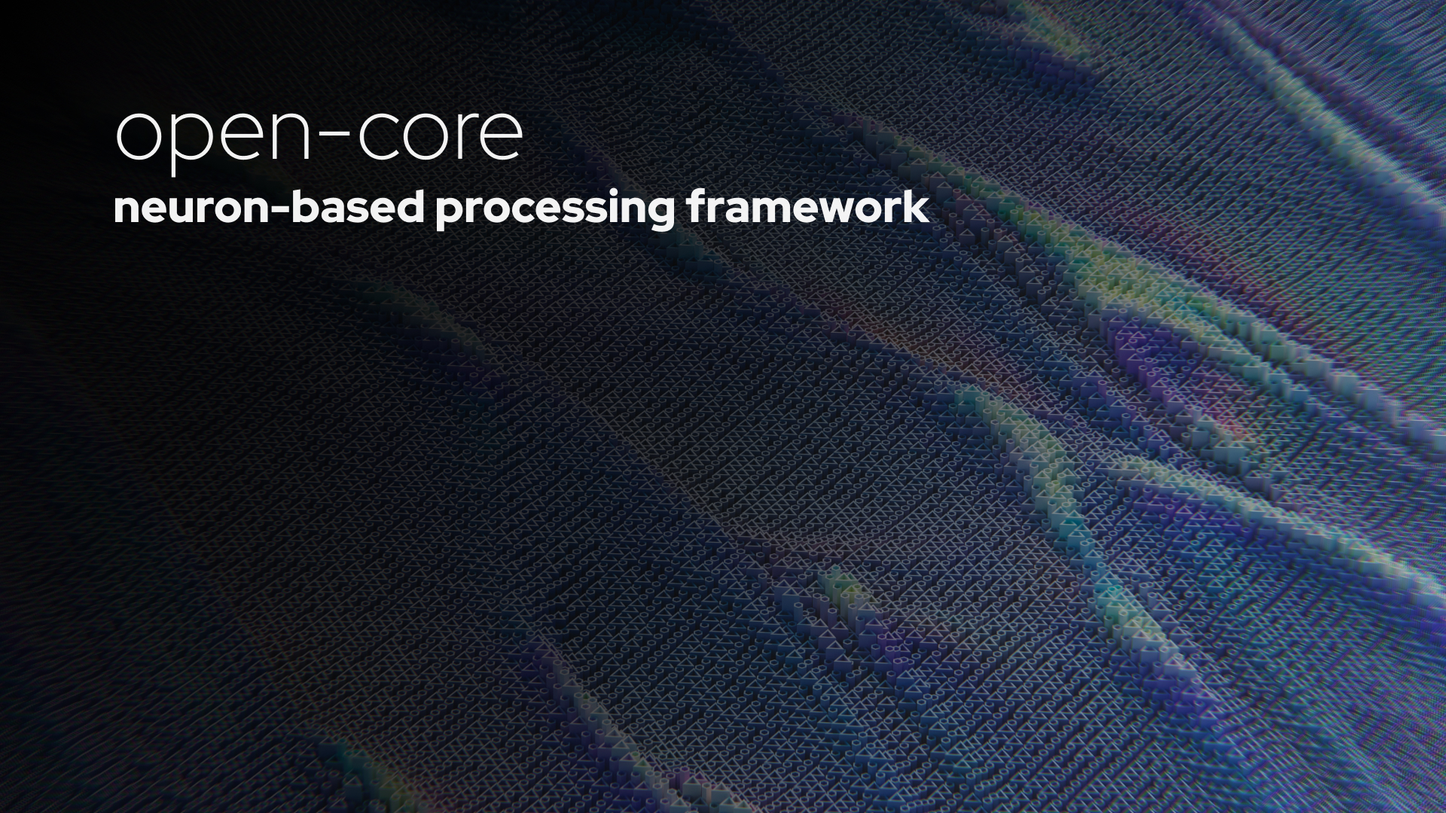
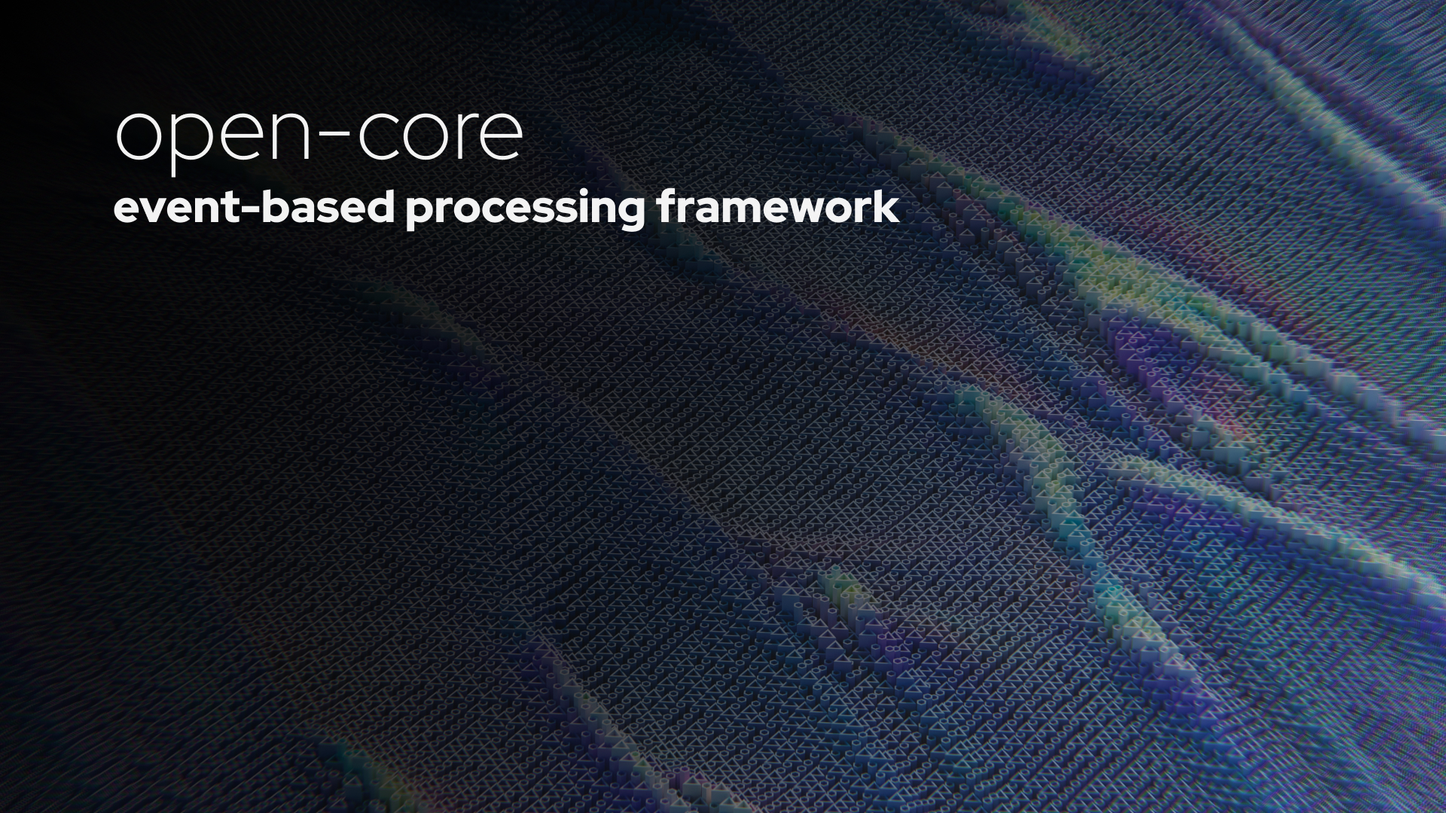
- v0.1.0 - Fixed the requirement files - Fixed GitHub Action workflow - Added SonarCloud

Changed region(s): [[0.0625, 0.2139, 0.6562, 0.3056]]

diff --git a/README.md b/README.md
@@ -1,50 +1,137 @@
 ![`open-core` header image.](asset/header.jpg)
 
-![Repo size](https://img.shields.io/github/repo-size/ilpomo/open-core?color=70e000)
-![License](https://img.shields.io/github/license/ilpomo/open-core?color=70e000)
+<p align="center">
+   <a href="https://github.com/ilpomo/open-core/actions/workflows/python-app.yml">
+      <img src="https://github.com/ilpomo/open-core/actions/workflows/python-app.yml/badge.svg">
+   </a>
+   <a href="https://github.com/ilpomo/open-core/">
+      <img src="https://img.shields.io/github/repo-size/ilpomo/open-core?color=70e000">
+   </a>
+   <a href="https://github.com/ilpomo/open-core/blob/main/LICENSE">
+      <img src="https://img.shields.io/github/license/ilpomo/open-core?color=70e000">
+   </a>
+</p>
 
-# open-core: neuron-based processing framework
+# open-core: event-based processing framework
 
 > Code has to run like the human brain, trillions of individual neurons firing off messages to each other, a massively 
-> parallel network with no central control, no single point of failure, yet able to solve immensely difficult problems. 
+> parallel network with no central control, no single point of failure, yet able to solve immensely difficult problems.
+> \
 > And it’s no accident that the future of code looks like the human brain, because the endpoints of every network are, 
 > at some level, human brains.
->  
+> \
+> \
 > Pieter Hintjens
 
-`open-core` is an event-based processing framework for Python software.
-It helps build massively parallel, concurrent, and asynchronous code that follows the [actor model](https://en.wikipedia.org/wiki/Actor_model) paradigm: 
-multiple independent asynchronous process services emitting and receiving events to and from each other, without the 
-need of a central broker or coordinator.
+`open-core` is a Python framework to easily build **massively parallel**, **concurrent**, and **asynchronous 
+event-based** code that follows [**the actor model**](https://en.wikipedia.org/wiki/Actor_model):
+multiple independent asynchronous process services hosting actors that exchanges events between them, without the need 
+of a central broker or coordinator.
 It tries to achieve this in the most intuitive, simple, and straightforward possible way.
 
-## Design
+### What is it all about in really simple terms?
 
-- Designed over [the actor model](https://en.wikipedia.org/wiki/Actor_model)
-  - Parallelism through multi-processing for CPU bound tasks
-  - Concurrency based on multi-threading for I/O bound tasks
-  - Concurrency based on Asyncio for network-related tasks
-  - Asynchronous [ZeroMQ](https://github.com/zeromq/pyzmq) contexts and sockets
+`open-core` is a Python framework containing ready-to-use building blocks to develop **high-performance** Python code.
+Writing high-performance Python code is complex and requires a good knowledge of many different low-level concepts and 
+tools:
+[Global Interpreter Lock (GIL)](https://wiki.python.org/moin/GlobalInterpreterLock), 
+[multiprocessing](https://docs.python.org/3/library/multiprocessing.html), 
+[threading](https://docs.python.org/3/library/threading.html),
+[asyncio](https://docs.python.org/3/library/asyncio.html),
+[concurrent.futures](https://docs.python.org/3/library/concurrent.futures.html) and many others.
+
+Choosing the right combination of tools may be complex, confusing, and time-consuming for a lot of developers.
+
+`open-core` aims to simplify this complexity by providing just enough functionalities out of the box so developers can 
+focus on what they do best – writing great software instead of reinventing the wheel every time.
+It is based on the [Python Standard Library](https://docs.python.org/3/library/index.html) and some other great 
+third-party libraries, like [msgspec](https://github.com/jcrist/msgspec), [PyZMQ](https://github.com/zeromq/pyzmq), and
+[uvloop](https://github.com/MagicStack/uvloop).
+
+## How-To
+
+### Step 0: think about the *_who_* and the *_how_*
+
+Deconstruct the problem into its smaller parts.
+Think about the responsibilities: who should take care of each part? 
+Think about the information flow: how the data is moving between each part?
+Think about the blocking computation: how can these parts be scaled if necessary?
+
+### Step 1: define the *_actors_*
+
+Create an actor implementation by simply inheriting from the `AbstractActor` class.
+Define its `start(...)` abstract coroutine that represent what the actor will do once it is up and running.
+
+### Step 2: define the *_services_*
+
+For each actor implementation, create a function and inside this function:
+1. Create an instance of the actor;
+2. Define how the actor will exchange events with the other actors in the network:
+   1. Create one or more `SocketManager` instances;
+   2. Bind or connect all `SocketManager` instances depending on the chosen [ZeroMQ pattern](https://zguide.zeromq.org/docs/chapter1/); 
+3. Start the actor by using the built-in `start_actor(...)` utility function.
+
+These functions hosting a living actor will be the services.
+
+### Step 3: define the *_processes_*
+
+To run each service independently of each other, pass each one of them to a dedicated `multiprocessing.Process()` as a
+target function.
+Run the processes and enjoy.
+
+### Step 4: improve the *_architecture_*
+
+Test it and redesign it accordingly.
+Designing an optimized software architecture is a work of Art and labor limae,
+but no matter what, in the end this is one will be achieved thanks to `open-core`:
+- An architecture based on [the actor model](https://en.wikipedia.org/wiki/Actor_model);
+- Services with a single, well-defined responsibility;
+- Parallelism based on multiprocessing for all services, no matter if CPU-bound or not;
+- Concurrency based on threading for I/O-bound tasks inside each service;
+- Concurrency based on asyncio for network-related tasks;
 
 ## Installation
+
+`open-core` ~~is listed~~ in The Python Package Index (PyPI), so ~~it is~~ possible to get it using `pip`, 
+but the tests folder is not included in the default package.
+To run the tests, it is necessary to clone this repository.
+
+### Using pip (without tests):
 
 ```sh
 pip install open-core
 ```
 
+### Using the full repository (with tests):
+
+```commandline
+git clone https://github.com/ilpomo/open-core.git
+```
+
 ## Dependencies
 
-`open-core` will always try to reduce dependencies to the extreme minimum. The current dependencies are specified in 
-the `requirements.txt` file::
+`open-core` will always reduce dependencies to the extreme minimum.
 
-- [msgspec](https://github.com/jcrist/msgspec): A fast serialization and validation library, with builtin support for JSON, MessagePack, YAML, and TOML.
+For end users, the dependencies are specified in the `requirements.txt` file:
+
+- [msgspec](https://github.com/jcrist/msgspec): A fast serialization and validation library, with builtin support for 
+JSON, MessagePack, YAML, and TOML.
 - [PyZMQ](https://github.com/zeromq/pyzmq): Python bindings for ZeroMQ.
-- [Pytest](https://github.com/pytest-dev/pytest): The pytest framework makes it easy to write small tests, yet scales to support complex functional testing.
+- [uvloop](https://github.com/MagicStack/uvloop): Ultra fast asyncio event loop.
+
+For contributors, the extra dependencies for testing are specified in the `requirements-dev.txt` file.
+
+- [pytest](https://github.com/pytest-dev/pytest): The pytest framework makes it easy to write small tests, yet scales 
+to support complex functional testing.
+- [pytest-asyncio](https://github.com/pytest-dev/pytest-asyncio): Asyncio support for pytest.
+- [pytest-mock](https://github.com/pytest-dev/pytest-mock): Thin-wrapper around the mock package for easier use with pytest
+- [setuptools](https://github.com/pypa/setuptools): The Setuptools build system.
 
 ### Installing dependencies through the requirements.txt file
 
 ```sh
-pip install -r requirements.txt
+pip install -r requirements.txt  # for end users
+pip install -r requirements-dev.txt  # also necessary for contributors
 ```
 
 ## Acknowledgments
